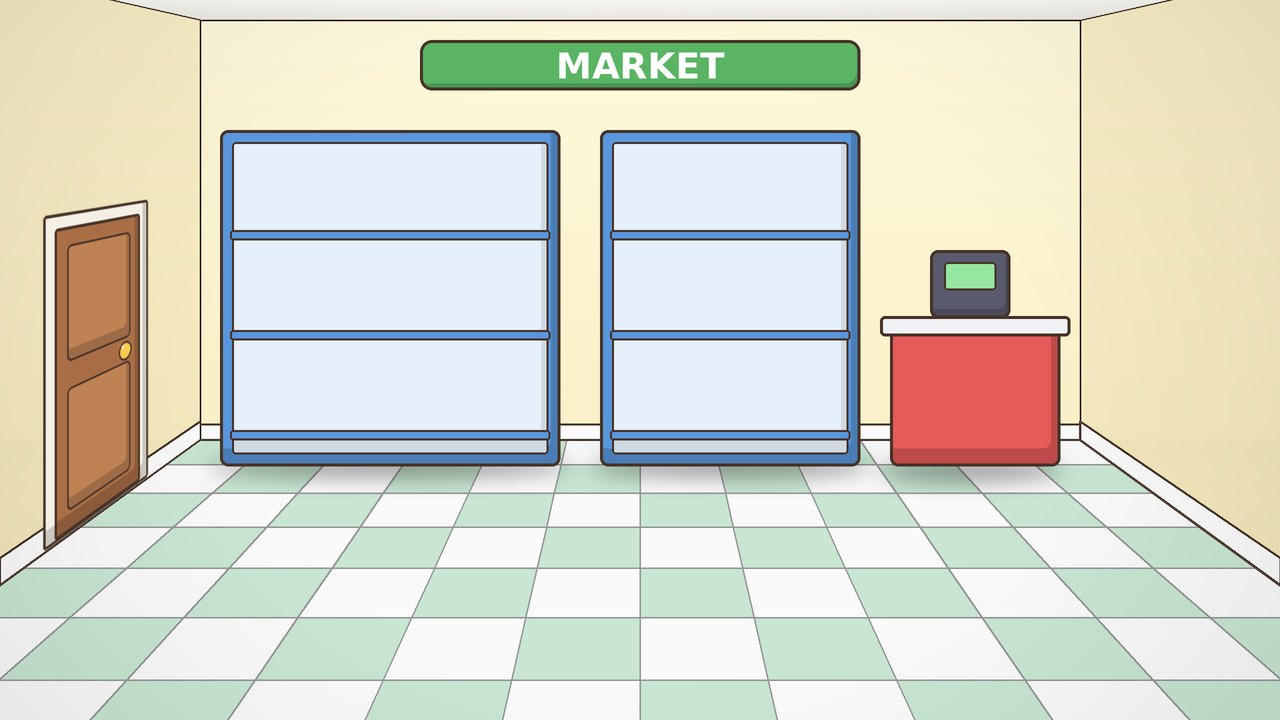
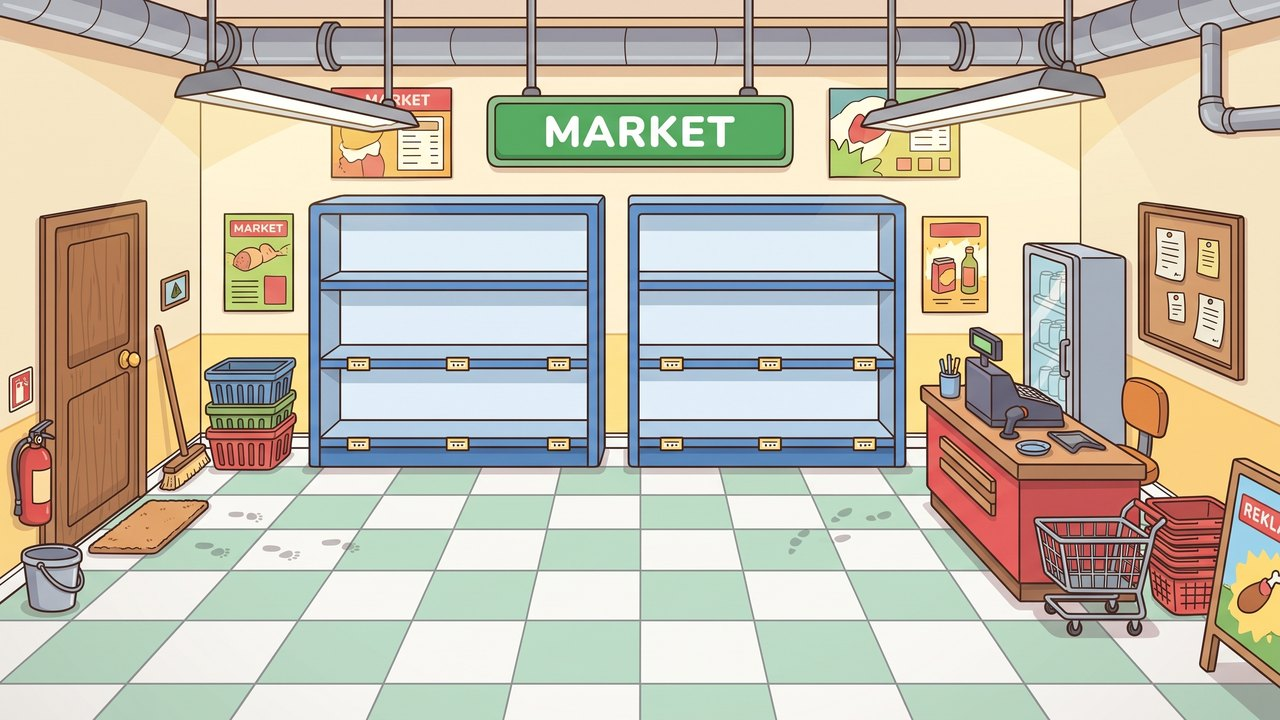
Market: yeni resim, ürünler iki mavi rafın üç katında, kasiyer kasanın önünde
Claude-Session: https://claude.ai/code/session_01FSkVF6b9FMUcpnurV8yuFZ

diff --git a/js/veri.js b/js/veri.js
@@ -449,26 +449,30 @@ window.OYUN_VERI = {
     },
     market: {
       ad: "Market", simge: "market",
-      resim: "cizimler/mekan/market.jpg", zemin: ZEMIN, giris: GIRIS_SOL,
-      kapilar: [{ ...KAPI_SOL, hedef: "dunya", yer: "market" }],
+      resim: "cizimler/mekan/market.jpg",
+      zemin: { ust: 490, alt: 705, sol: 30, sag: 1250, ufuk: { x: 715, y: 290 }, arka: { sol: 300, sag: 1090, y: 465 } },
+      giris: { x: 230, y: 600 },
+      kapilar: [{ x: 40, y: 200, w: 110, h: 345, hedef: "dunya", yer: "market" }],
       calisan: {
-        meslek: "kasiyer", x: 960, y: 500,
+        meslek: "kasiyer", x: 975, y: 520,
         selam: "Hoş geldiniz! Aradığınızı bulabildiniz mi?",
         sozler: ["Meyveler bugün çok taze.", "Poşet ister misiniz?", "Kasaya buyurun, ürünleri okutayım.", "Fişiniz burada. İyi günler!", "Bugün sütte indirim var."],
       },
       noktalar: [
+        // İki mavi rafın üç katı. Raftan alınan ürünün yerine yenisi gelir.
         {
           tur: "raf", raflar: [
-            { sablon: "elma", x: 270, y: 230 }, { sablon: "muz", x: 345, y: 230 }, { sablon: "portakal", x: 420, y: 230 }, { sablon: "cilek", x: 495, y: 230 },
-            { sablon: "ekmek", x: 285, y: 330 }, { sablon: "peynir", x: 390, y: 330 }, { sablon: "havuc", x: 480, y: 330 },
-            { sablon: "sut", x: 275, y: 430 }, { sablon: "portakal-suyu", x: 370, y: 430 }, { sablon: "karpuz", x: 470, y: 430 },
-            { sablon: "tahin", x: 650, y: 230 }, { sablon: "kurabiye", x: 730, y: 230 }, { sablon: "dondurma", x: 810, y: 230 },
-            { sablon: "sabun", x: 650, y: 330 }, { sablon: "sampuan", x: 730, y: 330 }, { sablon: "dis-macunu", x: 810, y: 330 },
-            { sablon: "muz", x: 650, y: 430 }, { sablon: "elma", x: 730, y: 430 }, { sablon: "ekmek", x: 810, y: 430 },
+            { sablon: "elma", x: 362, y: 278 }, { sablon: "muz", x: 427, y: 278 }, { sablon: "portakal", x: 492, y: 278 }, { sablon: "cilek", x: 557, y: 278 },
+            { sablon: "ekmek", x: 375, y: 356 }, { sablon: "peynir", x: 460, y: 356 }, { sablon: "havuc", x: 545, y: 356 },
+            { sablon: "sut", x: 370, y: 434 }, { sablon: "portakal-suyu", x: 455, y: 434 }, { sablon: "karpuz", x: 545, y: 434 },
+            { sablon: "tahin", x: 685, y: 278 }, { sablon: "kurabiye", x: 765, y: 278 }, { sablon: "dondurma", x: 845, y: 278 },
+            { sablon: "sabun", x: 685, y: 356 }, { sablon: "sampuan", x: 765, y: 356 }, { sablon: "dis-macunu", x: 845, y: 356 },
+            { sablon: "muz", x: 685, y: 434 }, { sablon: "elma", x: 765, y: 434 }, { sablon: "ekmek", x: 845, y: 434 },
           ],
         },
       ],
     },
+
     oyuncakci: {
       ad: "Oyuncakçı", simge: "oyuncak",
       resim: "cizimler/mekan/oyuncakci.jpg", zemin: ZEMIN, giris: GIRIS_SOL,
